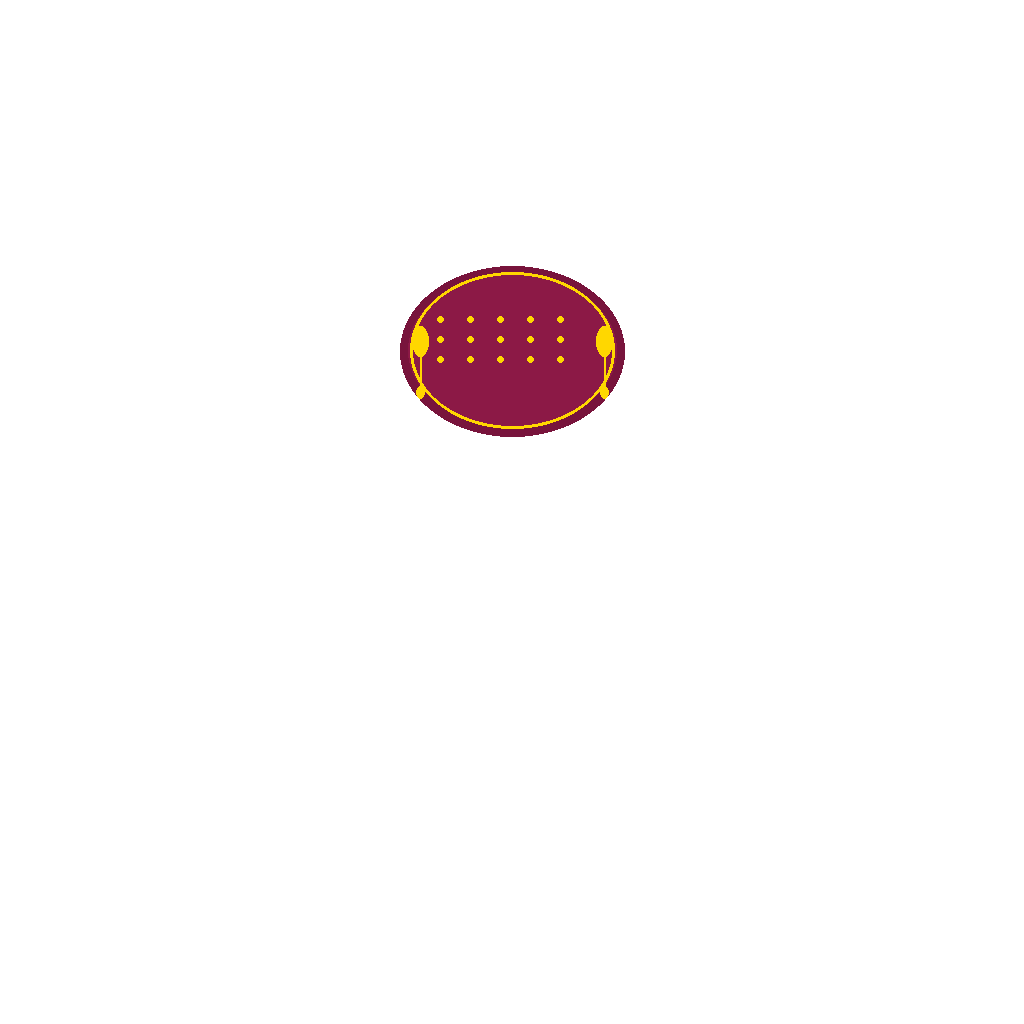
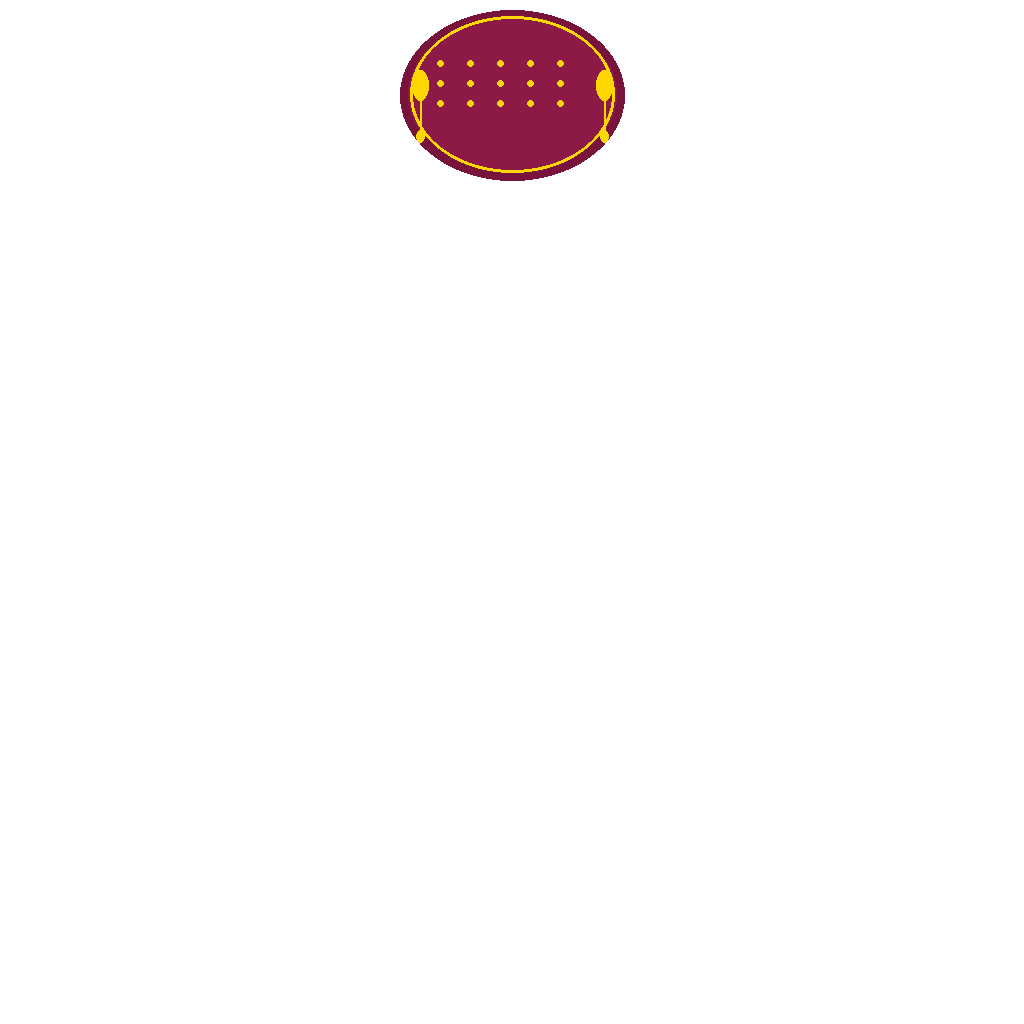
fix

Changed region(s): [[0.375, 0.25, 0.625, 0.4375], [0.375, 0.0, 0.625, 0.1875]]

diff --git a/generate_assets.py b/generate_assets.py
@@ -1,9 +1,9 @@
 #!/usr/bin/env python3
-"""High-quality Turkic traditional clothing assets at 512x1024."""
+"""High-quality Turkic traditional clothing assets at 1024x1024."""
 from PIL import Image, ImageDraw
 import math
 
-W, H = 512, 1024
+W, H = 1024, 1024
 GOLD = (255, 215, 0)
 DARK_GOLD = (200, 170, 0)
 
@@ -480,6 +480,29 @@ def base_body_male():
 
     img.save("assets/base_body_male.png")
 
+ASSET_PATHS = [
+    "assets/base_body.png",
+    "assets/base_body_male.png",
+    "assets/hair/hair_turban.png",
+    "assets/hair/hair_fes.png",
+    "assets/hair/hair_hotoz.png",
+    "assets/hair/hair_tac.png",
+    "assets/top/top_kaftan.png",
+    "assets/top/top_yelek.png",
+    "assets/top/top_bindalli.png",
+    "assets/top/top_gomlek.png",
+    "assets/bottom/bottom_salvar.png",
+    "assets/bottom/bottom_etek.png",
+    "assets/bottom/bottom_salvar_kisa.png",
+    "assets/shoes/shoes_cizme.png",
+    "assets/shoes/shoes_babuc.png",
+    "assets/shoes/shoes_takunya.png",
+    "assets/accessory/acc_kusak.png",
+    "assets/accessory/acc_kolye.png",
+    "assets/accessory/acc_kupe.png",
+    "assets/accessory/acc_bilezik.png",
+]
+
 if __name__ == "__main__":
     base_body()
     base_body_male()
@@ -501,4 +524,13 @@ if __name__ == "__main__":
     acc_kolye()
     acc_kupe()
     acc_bilezik()
-    print("All Turkic clothing assets generated at 1024x512.")
+
+    for p in ASSET_PATHS:
+        img = Image.open(p)
+        square = Image.new("RGBA", (1024, 1024), (0, 0, 0, 0))
+        x = (1024 - img.width) // 2
+        y = (1024 - img.height) // 2
+        square.paste(img, (x, y), img)
+        square.save(p)
+
+    print("All Turkic clothing assets generated at 1024x1024.")
